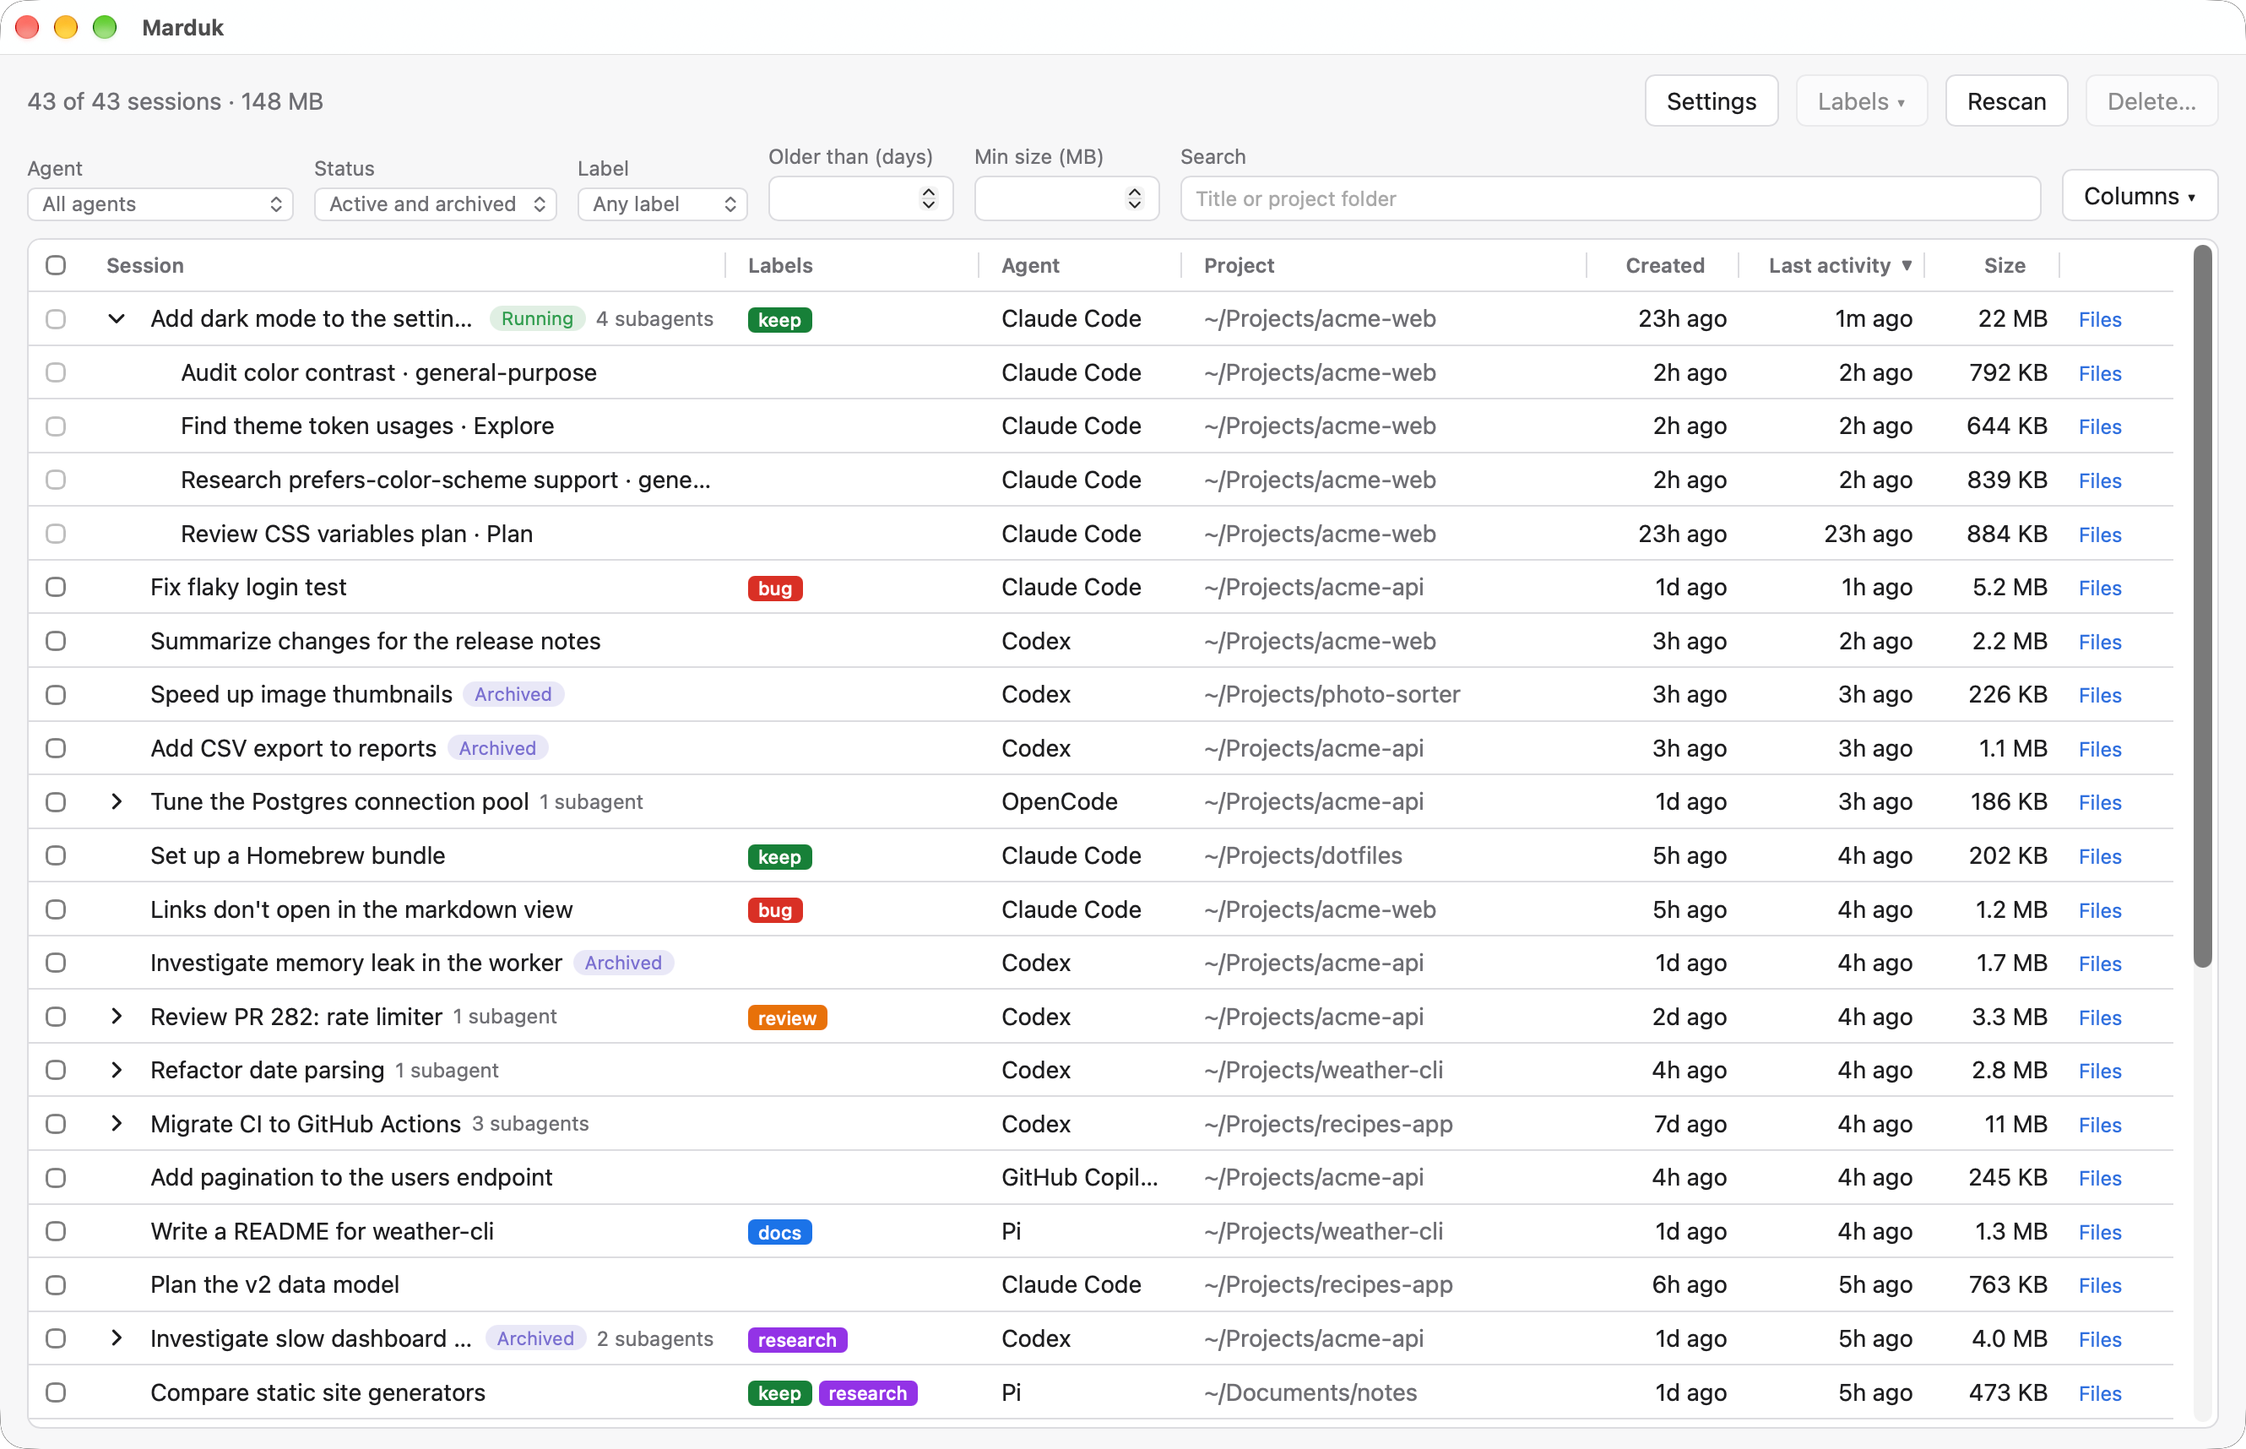
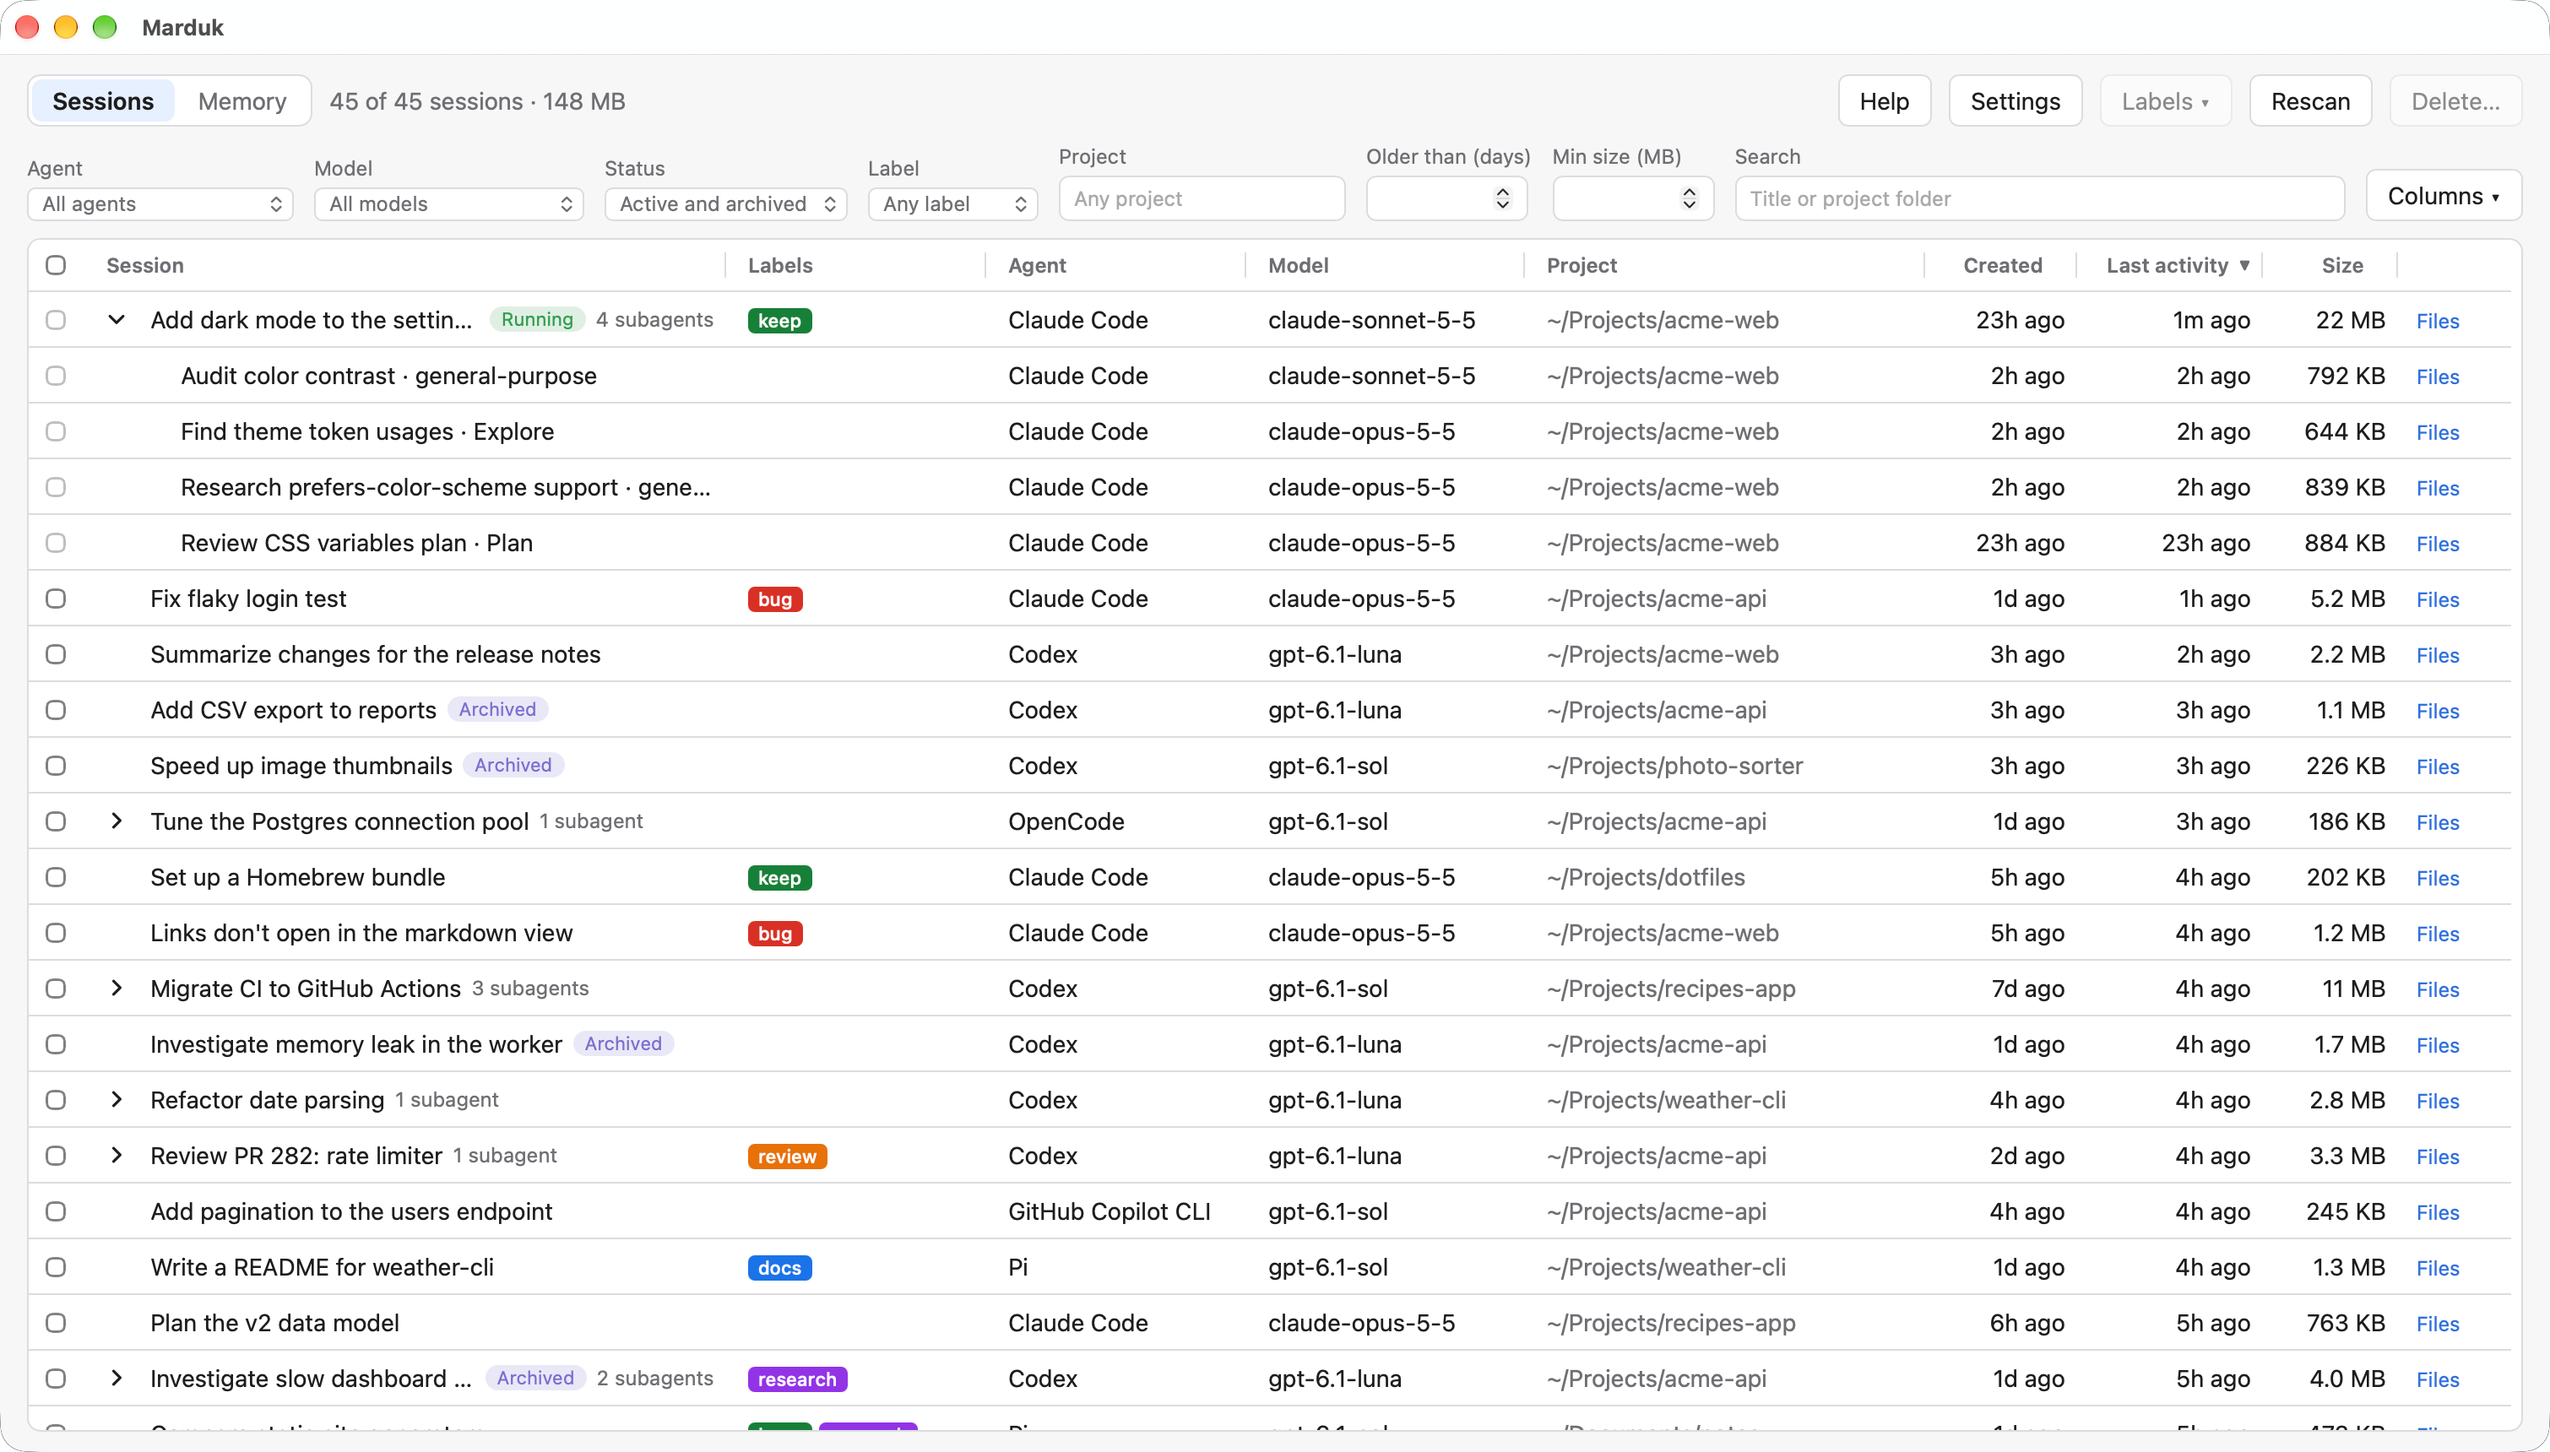
docs: README screenshot with the Model column; real gpt-6.1 variants in the demo
The demo's Codex sessions use gpt-6.1-sol, -terra and -luna, the variant
names Codex records, instead of made-up ones.

diff --git a/crates/marduk-core/src/demo.rs b/crates/marduk-core/src/demo.rs
@@ -1349,8 +1349,8 @@ impl Writer<'_> {
 fn model(agent: &str, title: &str) -> &'static str {
     let choices: &[&str] = match agent {
         "claude" => &["claude-opus-5-5", "claude-sonnet-5-5"],
-        "codex" => &["gpt-6.1", "gpt-6.1-mini"],
-        _ => &["claude-sonnet-5-5", "gpt-6.1"],
+        "codex" => &["gpt-6.1-sol", "gpt-6.1-terra", "gpt-6.1-luna"],
+        _ => &["claude-sonnet-5-5", "gpt-6.1-sol"],
     };
     choices[(fnv(title, 4) % choices.len() as u64) as usize]
 }

diff --git a/docs/demo.md b/docs/demo.md
@@ -68,8 +68,9 @@ By default, transcripts are padded to the sizes listed in `demo.rs`, so the Size
 ## Updating the README screenshot
 
 1. Run `pnpm demo`.
-2. Resize the window to about 1330 × 860 points, so that every default column fits without scrolling sideways.
-3. Expand _Add dark mode to the settings page_ to show its subagents.
-4. On macOS, capture the window with `screencapture -o -l <window id> docs/screenshot.png` (Screen Recording permission is required), or press ⇧⌘4, then Space, then ⌥-click the window to leave out the shadow.
+2. Resize the window to about 1510 × 860 points.
+3. In **Columns ▾**, turn on **Model**. Narrow **Labels** to just fit _keep_ and _research_, and widen **Project** and **Model** until the table fills the window with no path or model name cut off.
+4. Expand _Add dark mode to the settings page_ to show its subagents, then click empty space in the toolbar so no column edge is highlighted and the window has focus.
+5. On macOS, capture the window with `screencapture -o -l <window id> docs/screenshot.png` (Screen Recording permission is required), or press ⇧⌘4, then Space, then ⌥-click the window to leave out the shadow.
 
-Take the screenshot within five minutes of starting the demo, while the _Running_ badge is still showing.
+Take the screenshot within five minutes of starting the demo, while the _Running_ badge is still showing. Column widths persist (in the demo's settings and the webview's cache), so a rerun usually only needs steps 2 and 4.

diff --git a/README.md b/README.md
@@ -8,7 +8,7 @@ Your coding agents are less monstrous than Tiamat, but left alone they make thei
 
 It reads the transcripts that coding agents keep on disk. You can filter by agent, age, size or project, then delete the sessions you don't need, or archive them when the agent supports archiving.
 
-![Marduk listing Claude Code, Codex, OpenCode, GitHub Copilot CLI and Pi sessions, with labels, a running session and expanded subagents](docs/screenshot.png)
+![Marduk listing Claude Code, Codex, OpenCode, GitHub Copilot CLI and Pi sessions, with labels, models, a running session and expanded subagents](docs/screenshot.png)
 
 ## Supported agents
 
